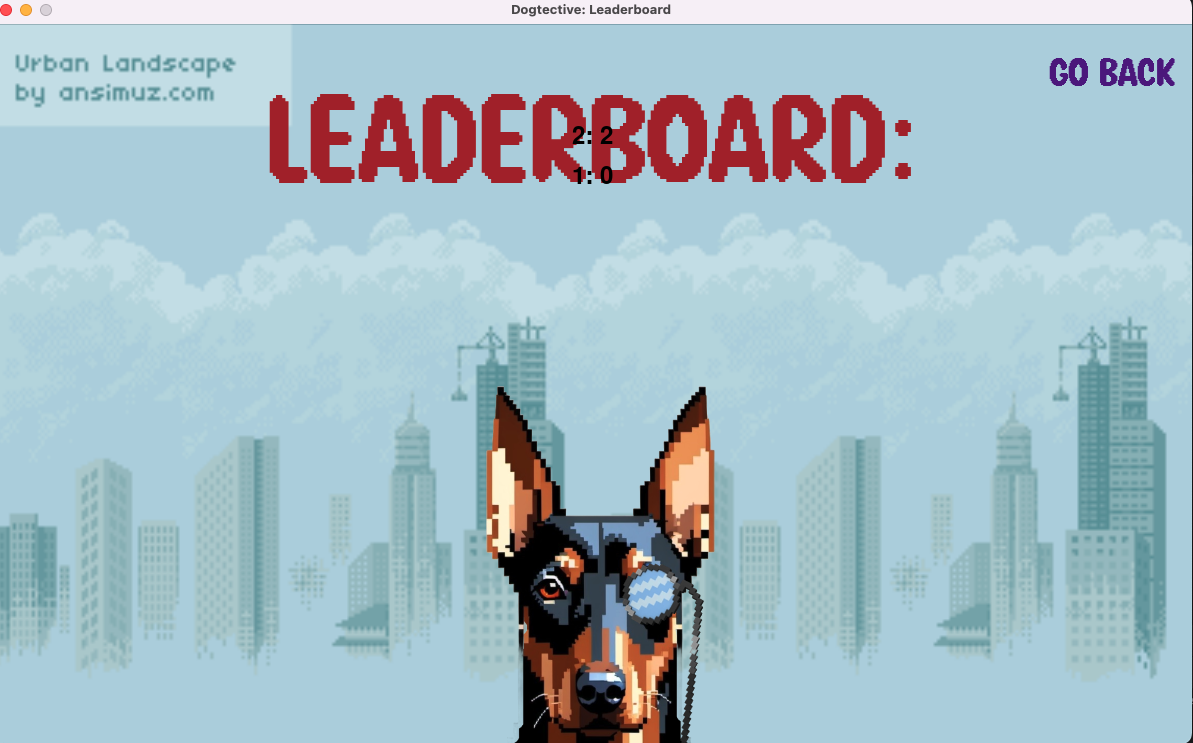
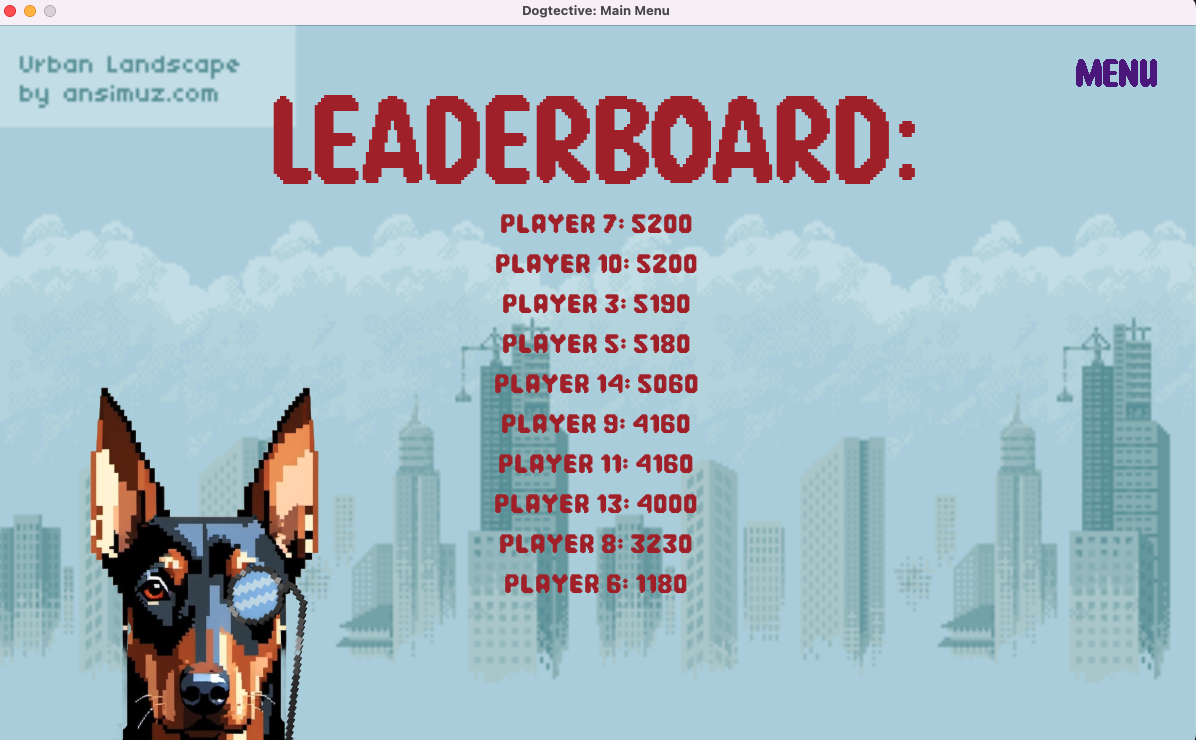
readme.md screenshots added/updated

diff --git a/README.md b/README.md
@@ -44,31 +44,35 @@ Finish in under 30 seconds for extra points. The player receives 10 points for e
 - Finish in 20 seconds = **100 bonus points**
 - Finish in 30 seconds or more = 0 bonus points
 
-## Game demo - MC TO SORT URL OR MP4
+## Game demo - MC TO UPDATE VIDEO - THIS IS SAMPLE ONLY TO CHECK LINK WORKS
 
 Click below to see the game in action!
 
-[Dogtective demo](URL GOES HERE)
+[Dogtective Demo](https://drive.google.com/file/d/1xl2yJtKlrdo8W8zOoIzRfUl1eU_ZFgVH/view?usp=drive_link)
 
-## Game screenshots - LEADERBOARD SCREENSHOTS WILL BE UPDATED WHEN CODING IS FINISHED
+## Game screenshots
 
-**Main menu**
+**Main menu:**
 
 <img src="logic/assets/images/readme/main_menu.png" alt="Dogtective main menu" width="300" height="200">
 
-**Gameplay**
+**Gameplay:**
 
 <img src="logic/assets/images/readme/game_play.png" alt="Game play" width="300" height="200">
 
-**Game Over**
+**Mission Complete:**
+
+<img src="logic/assets/images/readme/mission_complete.png" alt="Mission Complete" width="300" height="200">
+
+**Game Over:**
 
 <img src="logic/assets/images/readme/game_over.png" alt="Game over" width="300" height="200">
 
-**Leaderboard**
+**Leaderboard:**
 
 <img src="logic/assets/images/readme/leaderboard.png" alt="Leaderboard" width="300" height="200">
 
-**Credits**
+**Credits:**
 
 <img src="logic/assets/images/readme/credits.png" alt="Credits" width="300" height="200">
 
